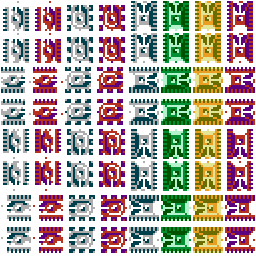
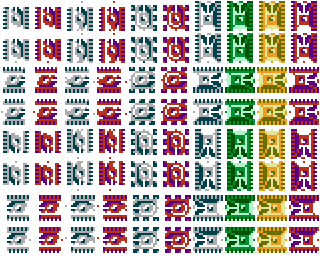
更换了NPC的图片，添加了几个坦克

diff --git a/BattleCity/src/object/bullet.js b/BattleCity/src/object/bullet.js
@@ -168,17 +168,16 @@ class BulletObj extends MoverObj {
 		function hitBrick() {
 			// 子弹方向为左右
 			if (that.iDir % 2) {
-			 // that.iDir%3*8是因为方向不同，子弹的x值并不是一直处于子弹当前前进方向的最面的
-			 // 因此要根据方向决定是否在x轴坐标上加上8个像素，下面的y同理
-			 iBrickLayer = parseInt( ((that.x+that.iDir%3*8) - col * 16) / 8 );
-			 if (oBrickStatus[iBrickObjIndex][iBrickLayer + (1 - j) * 2]) {
-				 oBrickStatus[iBrickObjIndex][iBrickLayer] = 0;
-				 oBrickStatus[iBrickObjIndex][iBrickLayer + 2] = 0;
-				 cxt.bg.clearRect(35 + iBrickLayer * 8 + col * 16 , 20 + row * 16 , 8 , 16);
-				 clearBrick();
-				 return false;
-			 }
-			 return true;
+				 // that.iDir%3*8是因为方向不同，子弹的x值并不是一直处于子弹当前前进方向的最面的
+				 // 因此要根据方向决定是否在x轴坐标上加上8个像素，下面的y同理
+				 iBrickLayer = parseInt( ((that.x+that.iDir%3*8) - col * 16) / 8 );
+				 if (oBrickStatus[iBrickObjIndex][iBrickLayer + (1 - j) * 2]) {
+					 oBrickStatus[iBrickObjIndex][iBrickLayer] = 0;
+					 oBrickStatus[iBrickObjIndex][iBrickLayer + 2] = 0;
+					 cxt.bg.clearRect(35 + iBrickLayer * 8 + col * 16 , 20 + row * 16 , 8 , 16);
+					 clearBrick();
+					 return false;
+				}
 			// 子弹方向为上下
 			} else {
 				iBrickLayer = parseInt( ((that.y+that.iDir/2*8) - row * 16) / 8 );
@@ -189,8 +188,8 @@ class BulletObj extends MoverObj {
 					clearBrick();
 					return false;
 				}
-				return true;
 			}
+			return true;
 		}
 
 		/**

diff --git a/BattleCity/src/object/enemyTank.js b/BattleCity/src/object/enemyTank.js
@@ -5,8 +5,9 @@ let oEnemy = {
 };
 
 let oEnemyData = [
-	[0, 0, 0, 1, 0, 0, 0, 0, 0, 0, 1, 0, 0, 0, 0, 0, 0, 1, 2, 2],
-	[1, 2, 3, 1, 0, 0, 0, 0, 0, 0, 1, 0, 0, 0, 0, 0, 0, 1, 2, 2],
+	[0, 0, 0, 1, 0, 0, 0, 0, 0, 0, 1, 0, 0, 0, 0, 0, 0, 1, 4, 4],
+	[6, 6, 2, 3, 2, 2, 0, 0, 0, 0, 0, 1, 0, 0, 0, 0, 0, 0, 1, 0],
+	[]
 ];
 
 let npcBornDelay = 30;         //第一个NPC延迟60个循环后出生，以后的坦克延迟180个循环出生
@@ -31,7 +32,7 @@ class EnemyObj extends TankObj {
 		this.x = (oEnemy.num % 3) * 192;
 		this.y = 0;
 		this.iEnemyTankType = oEnemyData[stage.num - 1][oEnemy.num - 1];
-		this.iSpeed = (this.iEnemyTankType != 2 && this.iEnemyTankType != 3) ? 1 : 2;
+		this.iSpeed = (parseInt(this.iEnemyTankType/2) === 2) ? 2 : 1;
 		this.OrderNum = oEnemy.num;
 		oEnemy.num ++;
 		npcBornDelay += 180;

diff --git a/BattleCity/src/gameLoader.js b/BattleCity/src/gameLoader.js
@@ -88,6 +88,11 @@ function gameLoop() {
 		}
 	}
 
+	// 绘制子弹
+	if (draw.bullet) {
+		
+	}
+
 	// 游戏暂停
 	draw.stop && gameStop();
 

diff --git a/BattleCity/src/comm.js b/BattleCity/src/comm.js
@@ -45,6 +45,7 @@ let oAud = {
 let draw = {
 	ui : true,
 	tank : false,
+	bullet : false,
 	setMap : false,
 	map : false,
 	stop : false,
